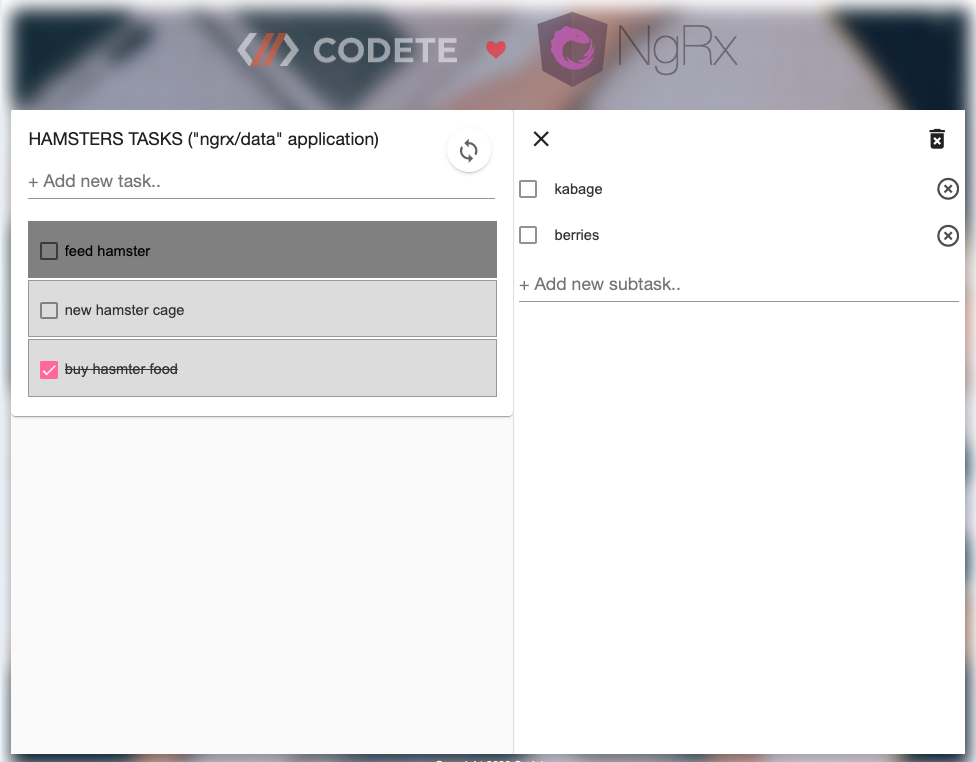
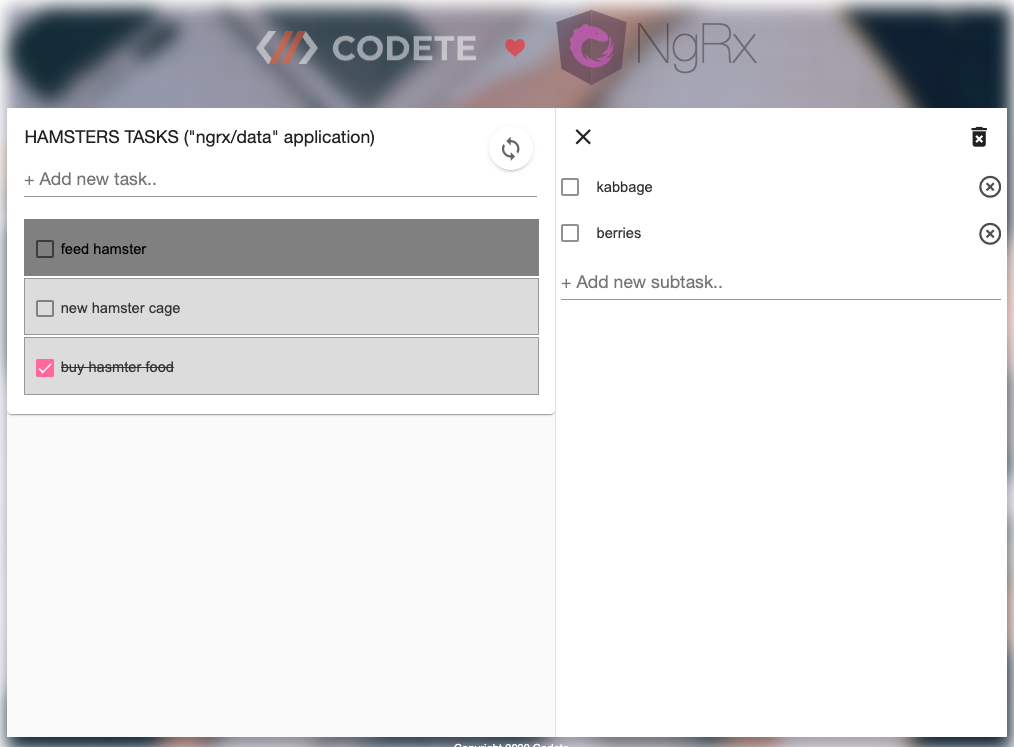
update

diff --git a/shared/src/lib/subtask/subtask.controller.ts b/shared/src/lib/subtask/subtask.controller.ts
@@ -35,7 +35,7 @@ export class SubTaskController extends Firedev.Base.Controller<SubTask> {
 
     const repo = this.connection.getRepository<SubTask>(SubTask);
     await repo.save(SubTask.from({
-      name: 'kabage',
+      name: 'kabbage',
       taskId: 1
     }));
     await repo.save(SubTask.from({
